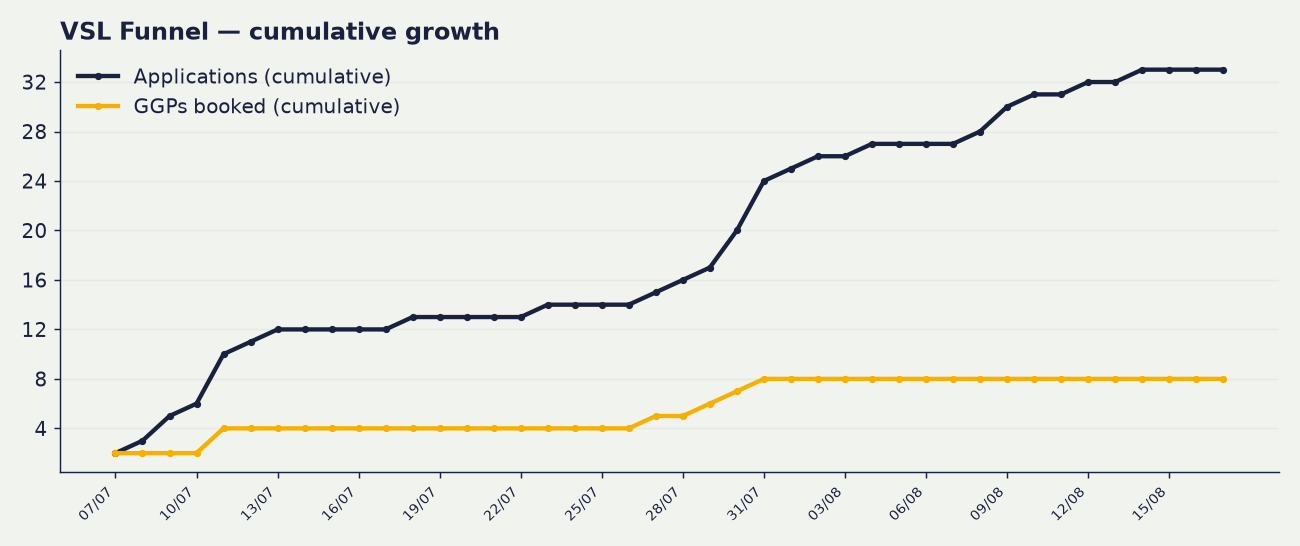
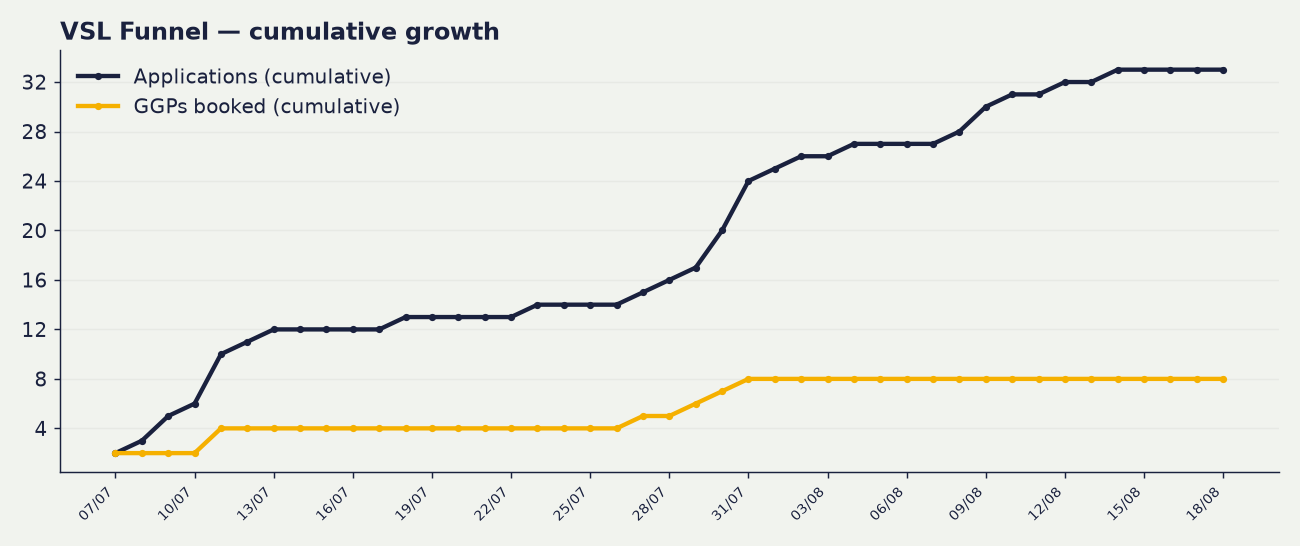
nightly dashboard update 2026-08-18 04:01

diff --git a/content/index.md b/content/index.md
@@ -1,6 +1,6 @@
 # 📈 VSL Funnel Dashboard
 
-_Live from the VSL Applications tracker + Meta. Last updated: 17 Aug 2026, 04:01 BST. Rebuilds nightly._
+_Live from the VSL Applications tracker + Meta. Last updated: 18 Aug 2026, 04:01 BST. Rebuilds nightly._
 
 > Funnel window from 2026-07-07. Attribution = your team's funnel-stage ticks on the Applications tab (the source of truth).
 
@@ -57,4 +57,4 @@ _Live from the VSL Applications tracker + Meta. Last updated: 17 Aug 2026, 04:01
 > _Applications + GGP-booked are TRUE daily series (from submission timestamps). Opt-ins have no per-day source in the Opt-ins tab, so opt-ins appear as a total only, not a daily line._
 
 ---
-<!-- Auto-generated by the VSL dashboard nightly pipeline. Do not edit by hand. 17 Aug 2026, 04:01 BST -->
+<!-- Auto-generated by the VSL dashboard nightly pipeline. Do not edit by hand. 18 Aug 2026, 04:01 BST -->
